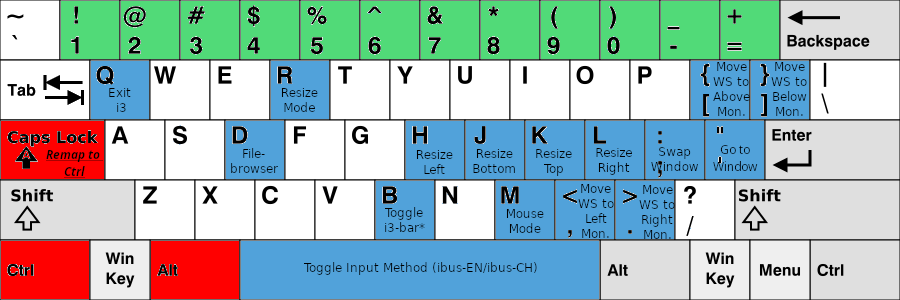
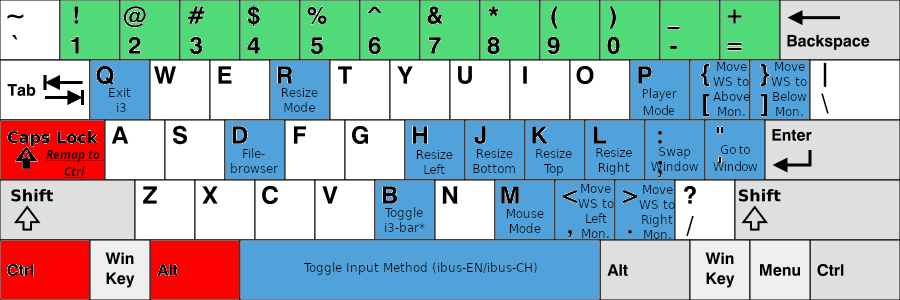
add_player_mode

Changed region(s): [[0.6844, 0.18, 0.7778, 0.42]]

diff --git a/config/i3/doc/i3_customization_note.md b/config/i3/doc/i3_customization_note.md
@@ -119,6 +119,8 @@ This session modifies keyboard keymap and operation for laptop trackpad
 #       Driver "libinput"
 #       Option "NaturalScrolling" "True"
 #       Option "Tapping" "On"
+#       Option "TappingButtonMap" "lrm"
+#       Option "ScrollMethod" "twofinger"
 # EndSection
 ```
 
@@ -154,3 +156,6 @@ This session modifies keyboard keymap and operation for laptop trackpad
 - https://askubuntu.com/questions/1122513/how-to-add-natural-inverted-mouse-scrolling-in-i3-window-manager
 - https://cravencode.com/post/essentials/enable-tap-to-click-in-i3wm/
 - https://www.reddit.com/r/i3wm/comments/cqefj3/mapping_symbols/
+- https://cravencode.com/post/essentials/enable-tap-to-click-in-i3wm/
+- https://blog.ruo-chen.wang/2020/01/switch-from-gnome-to-i3.html
+- https://wiki.archlinux.org/title/libinput

diff --git a/README.md b/README.md
@@ -216,6 +216,8 @@ Created by [gh-md-toc](https://github.com/ekalinin/github-markdown-toc)
     - Show/hide i3bar, reload i3bar, set default i3bar status (show/hide), bar font size
 - __Title Bar Mode (`[Winkey]` + `[Shift]` + `[t]`)__
     - Modify i3 title bar, e.g. hide/show title bar, font size
+- __Player Mode (`[Ctrl]`+`[Alt]`+`[p]`)__
+    - Player control (e.g. previous, pause-play, next) for spotify, player, vlc
 - __Mark Mode (`[Winkey]` + `[Shift]` + `[m]`)__
     - Mark window, go to/swap marked window, auto-mark function
 - __Window Layout Mode (`[Winkey]` + `[Shift]` + `[w]`)__
